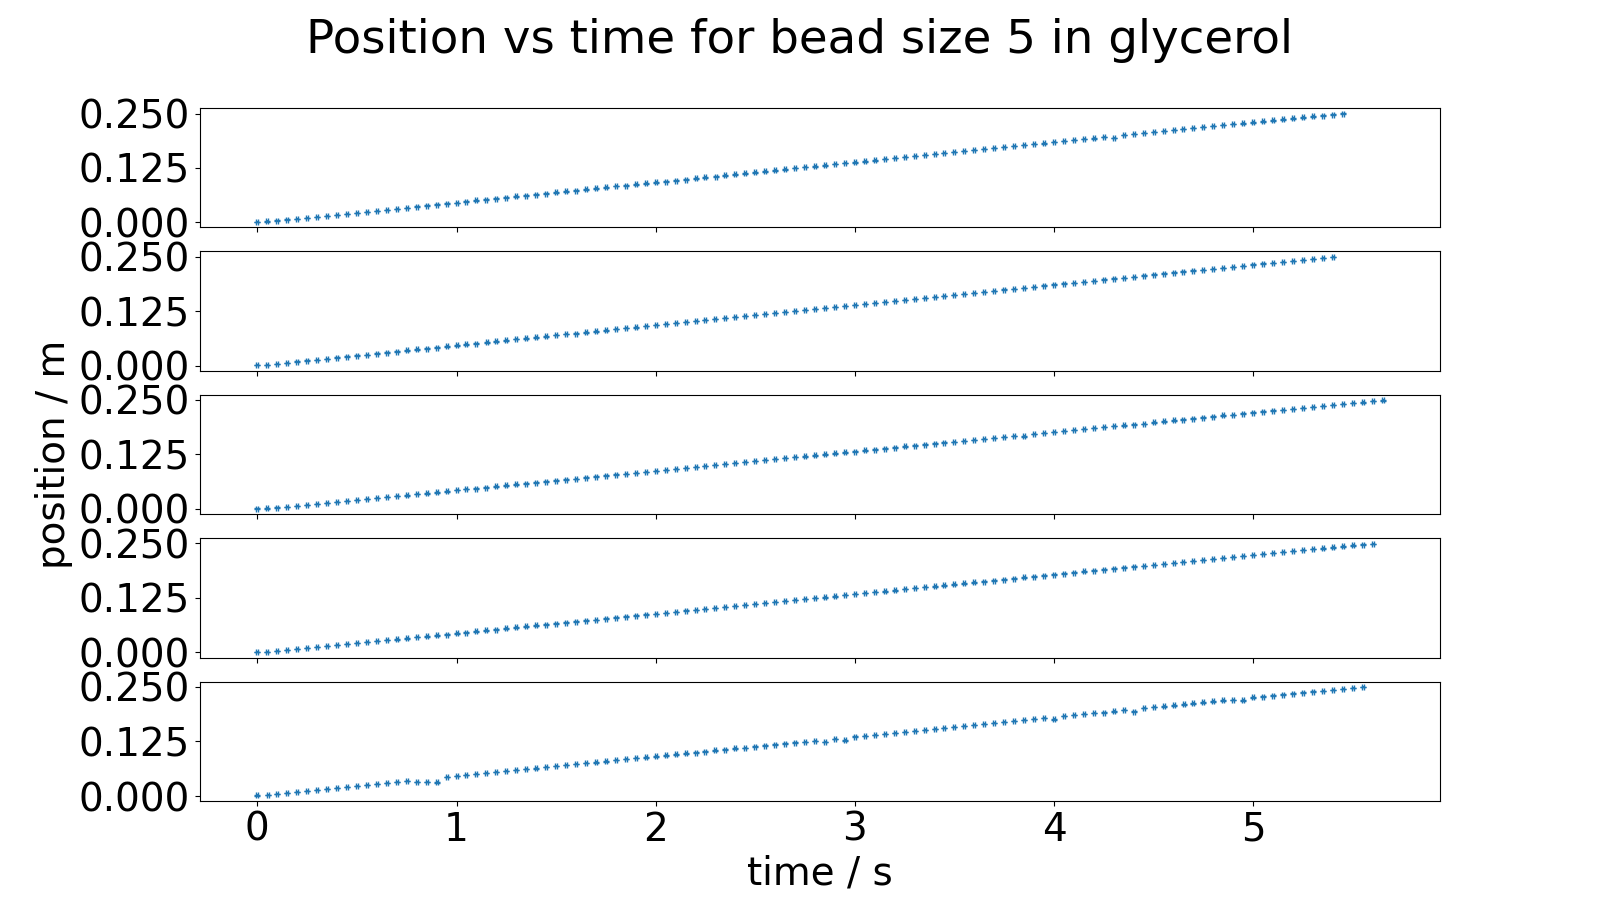
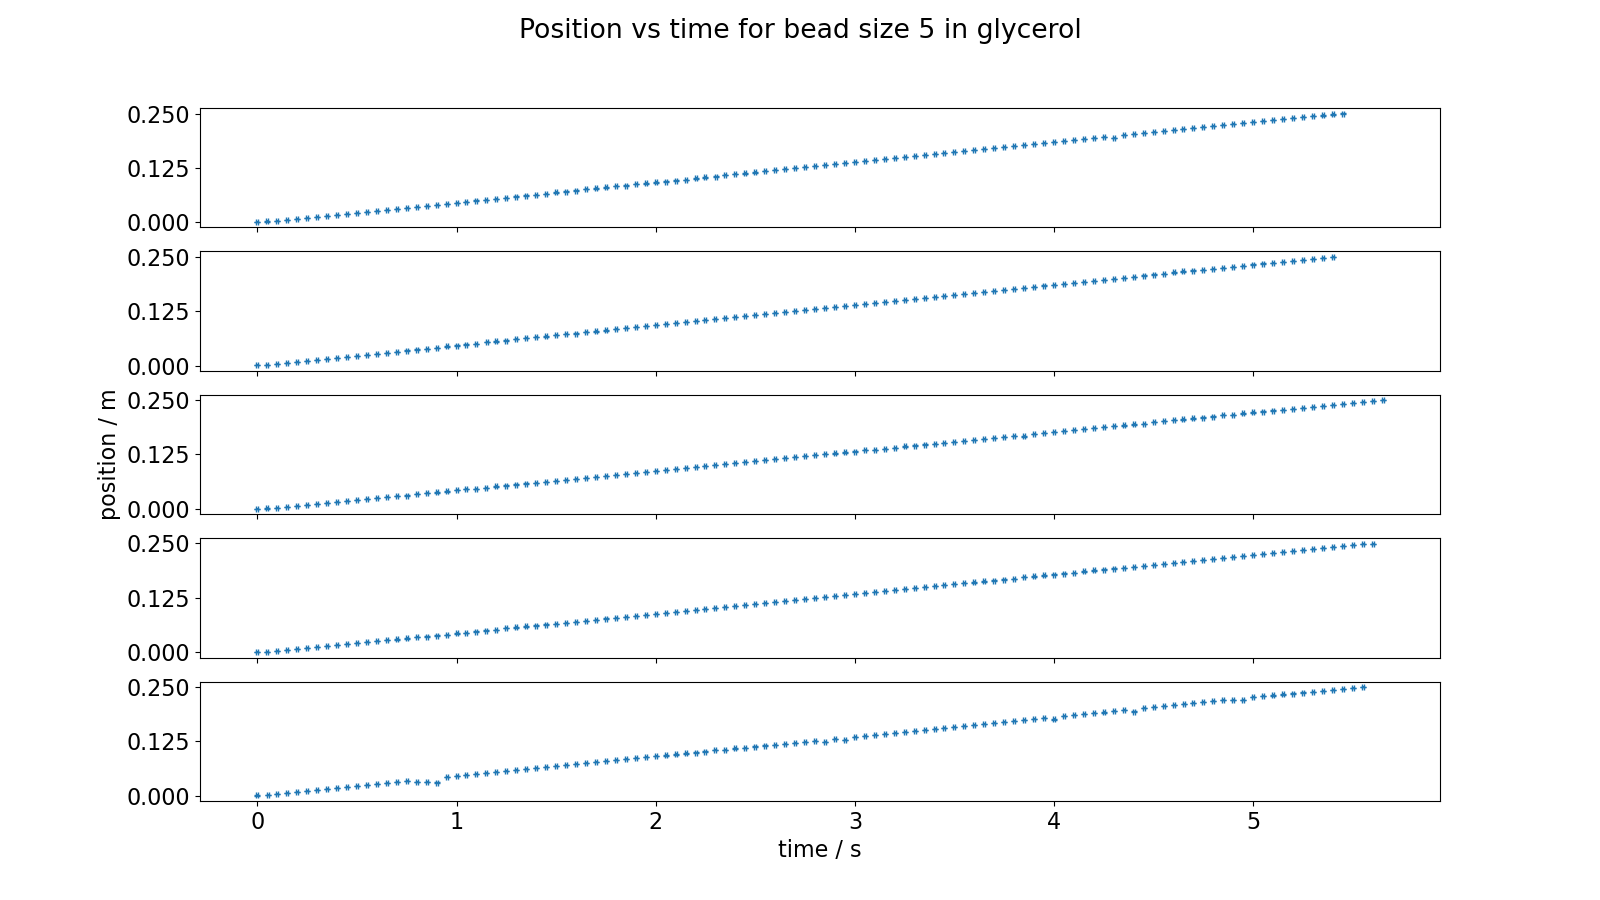
residual plots created, fits cleaned

diff --git a/main.py b/main.py
@@ -21,8 +21,11 @@ def set_axes_labels(axs):
     axs[-1].set_xlabel('time / s')
 
     for ax in axs:
-        y_range = ax.get_ylim()
         ax.set_yticks([0.000, 0.125, 0.250])
+
+def set_residual_axes_labels(axs):
+    axs[2].set_ylabel('residual / m')
+    axs[-1].set_xlabel('time / s')
 
 def plot_raw_graph(ax, fluid, bead_number, trial):
     filename = '%s/%s' %(fluid, fluid + 'bead' + str(bead_number) + 't' + str(trial))
@@ -51,7 +54,7 @@ def plot_raw_all_beads(show=False, save=False):
         for bead_number in bead_numbers:
             plot_raw_for_bead(fluid=fluid, bead_number=bead_number, show=show, save=save)
 
-def plot_fit_graph(ax, fluid, bead_number, trial, model):
+def plot_fit_graph(main_ax, residuals_ax, fluid, bead_number, trial, model):
     filename = '%s/%s' % (fluid, fluid + 'bead' + str(bead_number) + 't' + str(trial))
     data = data_loader.DataLoader(filename)
 
@@ -60,24 +63,35 @@ def plot_fit_graph(ax, fluid, bead_number, trial, model):
     fit = fitting.Fitting(model=model, x=data.x, x_error=data.x_error, y_measured=data.y, y_error=data.y_error,
                               units_for_parameters=units_for_parameters)
 
-    fit.scatter_plot_data_and_fit(ax=ax)
+    fit.scatter_plot_data_and_fit(ax=main_ax)
+
+    fit.plot_residuals(ax=residuals_ax)
+    residuals_ax.grid()
 
 def plot_fit_for_bead(model, fluid, bead_number, show=False, save=False):
     number_of_trials = 5
     trials = range(1, number_of_trials+1)
     fig, axs = plt.subplots(number_of_trials, 1, figsize=(16,9), sharex=True)
+    residuals_fig, residuals_axs = plt.subplots(number_of_trials, 1, figsize=(16, 9), sharex=True)
     for i in trials:
         index = i-1
-        plot_fit_graph(ax=axs[index], fluid=fluid, bead_number=bead_number, trial=i, model=model)
+        plot_fit_graph(main_ax=axs[index], residuals_ax=residuals_axs[index], fluid=fluid, bead_number=bead_number, trial=i, model=model)
 
     fig.suptitle('Position vs time for bead size %s in %s' %(str(bead_number), fluid))
 
     set_axes_labels(axs=axs)
 
+    residuals_fig.suptitle('Residuals for bead  size %s in %s' %(str(bead_number), fluid))
+
+
+    set_residual_axes_labels(axs=residuals_axs)
+
     if save:
-        plt.savefig('plots/fit_plots/%s.png' %(fluid + '_bead' + str(bead_number) + '_fit_plots'))
+        fig.savefig('plots/fit_plots/%s.png' %(fluid + '_bead' + str(bead_number) + '_fit_plots'))
+        residuals_fig.savefig('plots/residuals/%s.png' %(fluid + '_bead' + str(bead_number) + '_fit_plots'))
     if show:
-        plt.show()
+        fig.show()
+        residuals_fig.show()
 
 def plot_fit_all_beads(model, show=False, save=False):
     for fluid in fluids:
@@ -85,7 +99,7 @@ def plot_fit_all_beads(model, show=False, save=False):
             plot_fit_for_bead(model=model, fluid=fluid, bead_number=bead_number, show=show, save=save)
 
 
-# plot_raw_all_beads(show=False, save=True)
+plot_raw_all_beads(show=False, save=True)
 
 model = fit_models.Linear()
 plot_fit_all_beads(model=model, show=False, save=True)

diff --git a/fitting.py b/fitting.py
@@ -54,36 +54,18 @@ class Fitting():
 
         ax.legend(loc='upper right')
 
-    def plot_residuals(self, ax):
+        self.data_plot_xlim = ax.get_xlim()
 
+    def plot_residuals(self, ax):
         cff = CurveFitFuncs()
 
         residuals = cff.residual(self.y_measured, self.y_predicted)
+        error_in_residuals = np.sqrt((self.parameter_errors[0] * residuals) ** 2 + (self.parameter_errors[1]) ** 2 + (
+            self.y_error) ** 2)  # ErrorPropagation.add(ErrorPropagation.add(self.parameter_errors[0] * residuals, self.parameter_errors[1]), self.y_error)
 
-        (best_B, best_A, best_T, best_phi, best_exponential_factor) = self.popt
-        (error_B, error_A, error_T, error_phi, error_exponential_factor) = self.parameter_errors
+        Output.baseplot_errorbars_with_markers(ax=ax, x=self.x, y=residuals, yerr=error_in_residuals, xerr=None,
+                                               label='residuals')
 
-        def df_dB(t):
-            return 1
+        ax.set_xlim(*self.data_plot_xlim)
 
-        def df_dA(t):
-            return np.exp(-t * best_exponential_factor) * np.sin((2*np.pi/best_T) * t + best_phi)
-
-        def df_dexpfactor(t):
-            return -t * best_A * np.exp(-t * best_exponential_factor) * np.sin((2*np.pi/best_T) * t + best_phi)
-
-        def df_dT(t):
-            return (-2 * np.pi * t / best_T**2) * best_A * np.exp(-t * best_exponential_factor) * np.cos((2*np.pi/best_T) * t + best_phi)
-
-        def df_dphi(t):
-            return best_A * np.exp(-t * best_exponential_factor) * np.cos((2*np.pi/best_T) * t + best_phi)
-
-        def error_in_prediction(t):
-            sum_of_squares = (error_B * df_dB(t))**2 + (error_A * df_dA(t))**2 + (error_T * df_dT(t))**2 + (error_exponential_factor * df_dexpfactor(t))**2 + (error_phi * df_dphi(t))**2
-            return np.sqrt(sum_of_squares)
-
-        error_in_residuals = np.sqrt(self.y_error**2 + error_in_prediction(self.x)**2)
-
-        Output.baseplot_errorbars(ax=ax, x=self.x, y=residuals, yerr=error_in_residuals, xerr=None, label='residuals')
-
-        ax.legend()
+        ax.legend(loc='upper right')

diff --git a/data_loader.py b/data_loader.py
@@ -19,7 +19,7 @@ class DataLoader():
         raw_times = cff.remove_systematic_error(raw_times)
 
         self.y = raw_positions
-        self.y_error = np.zeros_like(self.y) + 0.0005
+        self.y_error = np.zeros_like(self.y) + 0.0002
 
         self.x = raw_times
         self.x_error = np.zeros_like(self.x) + 0.005
